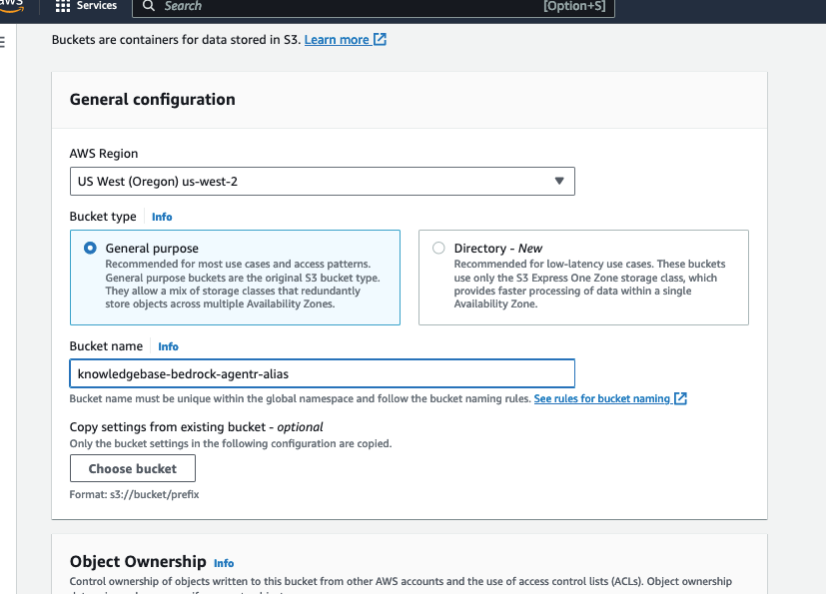
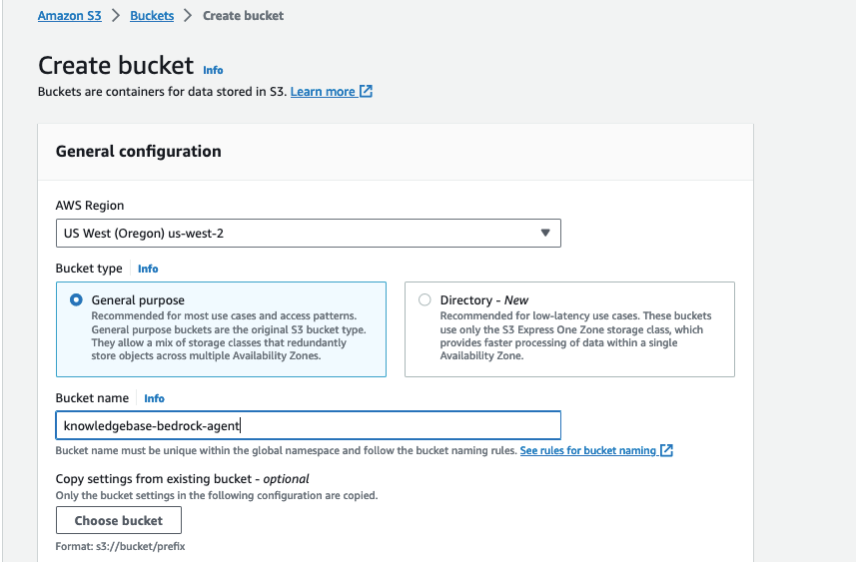
updated readme

Changed region(s): [[0.0605, 0.242, 0.908, 1.0], [0.0, 0.0, 1.0, 0.1815]]

diff --git a/README.md b/README.md
@@ -11,11 +11,17 @@ This guide details the setup process for an Amazon Bedrock agent on AWS, which w
 ## Configuration and Setup
 
 ### Step 1: Creating S3 Buckets
-- **Domain Data Bucket**: Create an S3 bucket to store the domain data. For example, call the S3 bucket "knowledgebase-bedrock-agent-alias". We will use the default settings. After creation, add the .pdf files located [here](https://github.com/jossai87/bedrock-agents-streamlit/tree/main/s3Docs) to the s3 bucket.
+- **Domain Data Bucket**: Create an S3 bucket to store the domain data. For example, call the S3 bucket "knowledgebase-bedrock-agent-alias". We will use the default settings. 
 
 ![Bucket create 1](Streamlit_App/images/bucket_pic_1.png)
 
 ![Bucket create 2](Streamlit_App/images/bucket_pic_2.png)
+
+After creation, add the .pdf files located [here](https://github.com/jossai87/bedrock-agents-streamlit/tree/main/s3Docs) to the s3 bucket.
+
+![bucket domain data](Streamlit_App/images/bucket_domain_data.png)
+
+
 
 - **Artifacts Bucket**: Create another S3 bucket to store artifacts. For example, call it "artifacts-bedrock-agent-creator-alias". You will need to download, then add the API schema file to this S3 bucket. This .json file can be found [here](https://github.com/jossai87/bedrock-agents-streamlit/blob/main/WorkingSchema.json).
 
